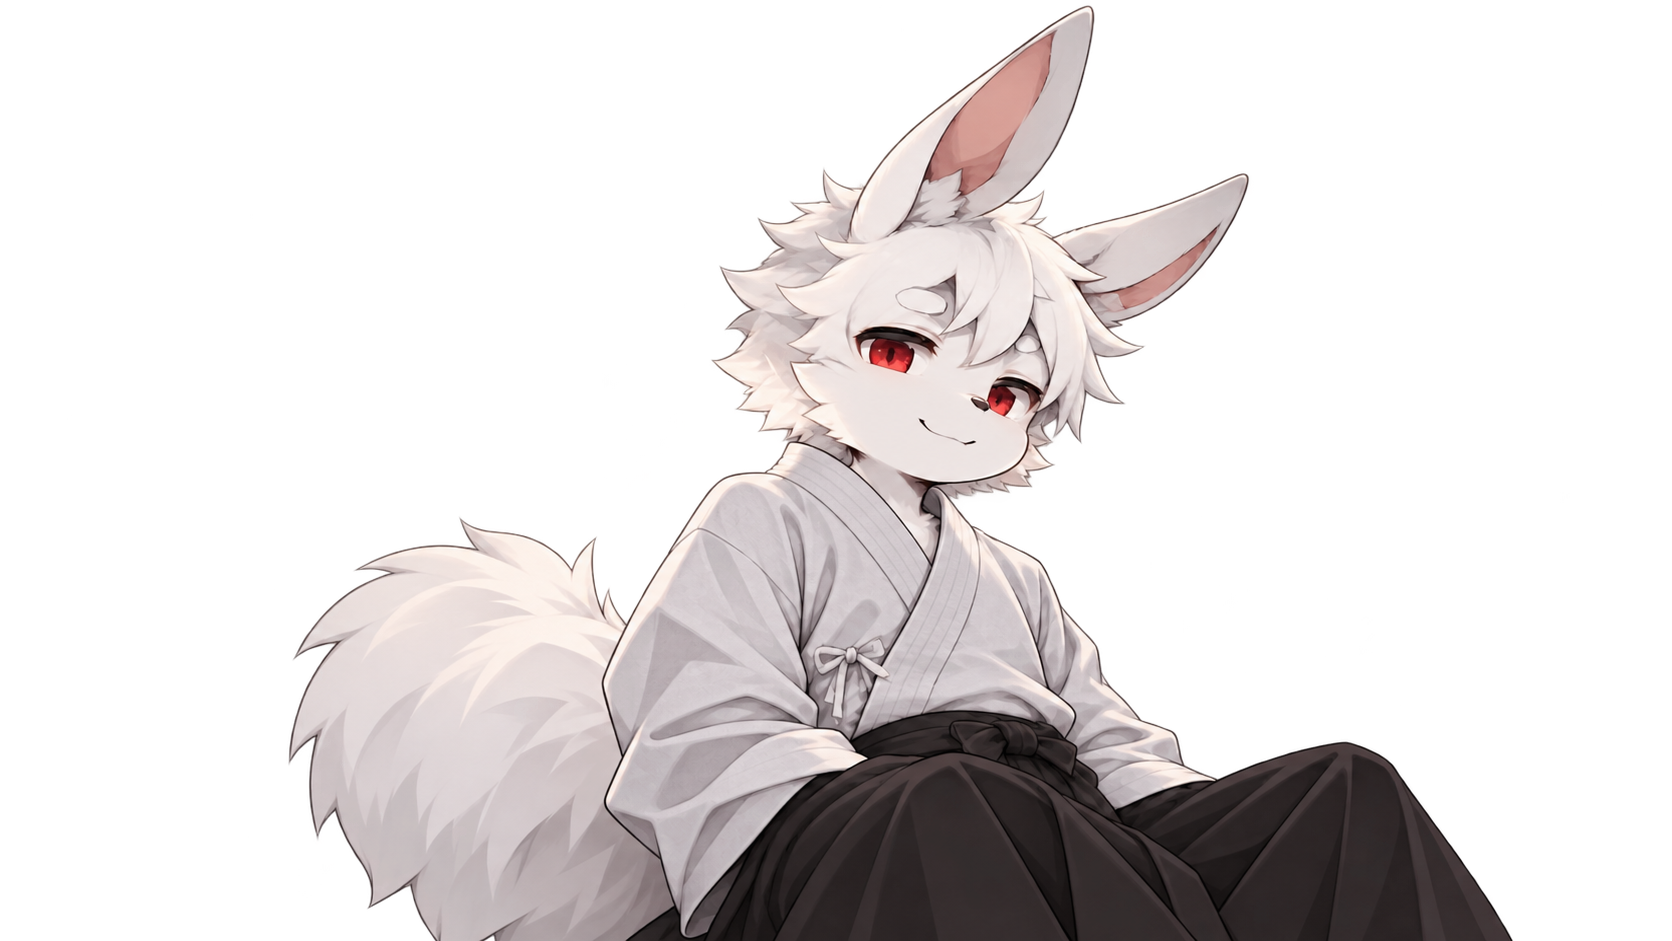
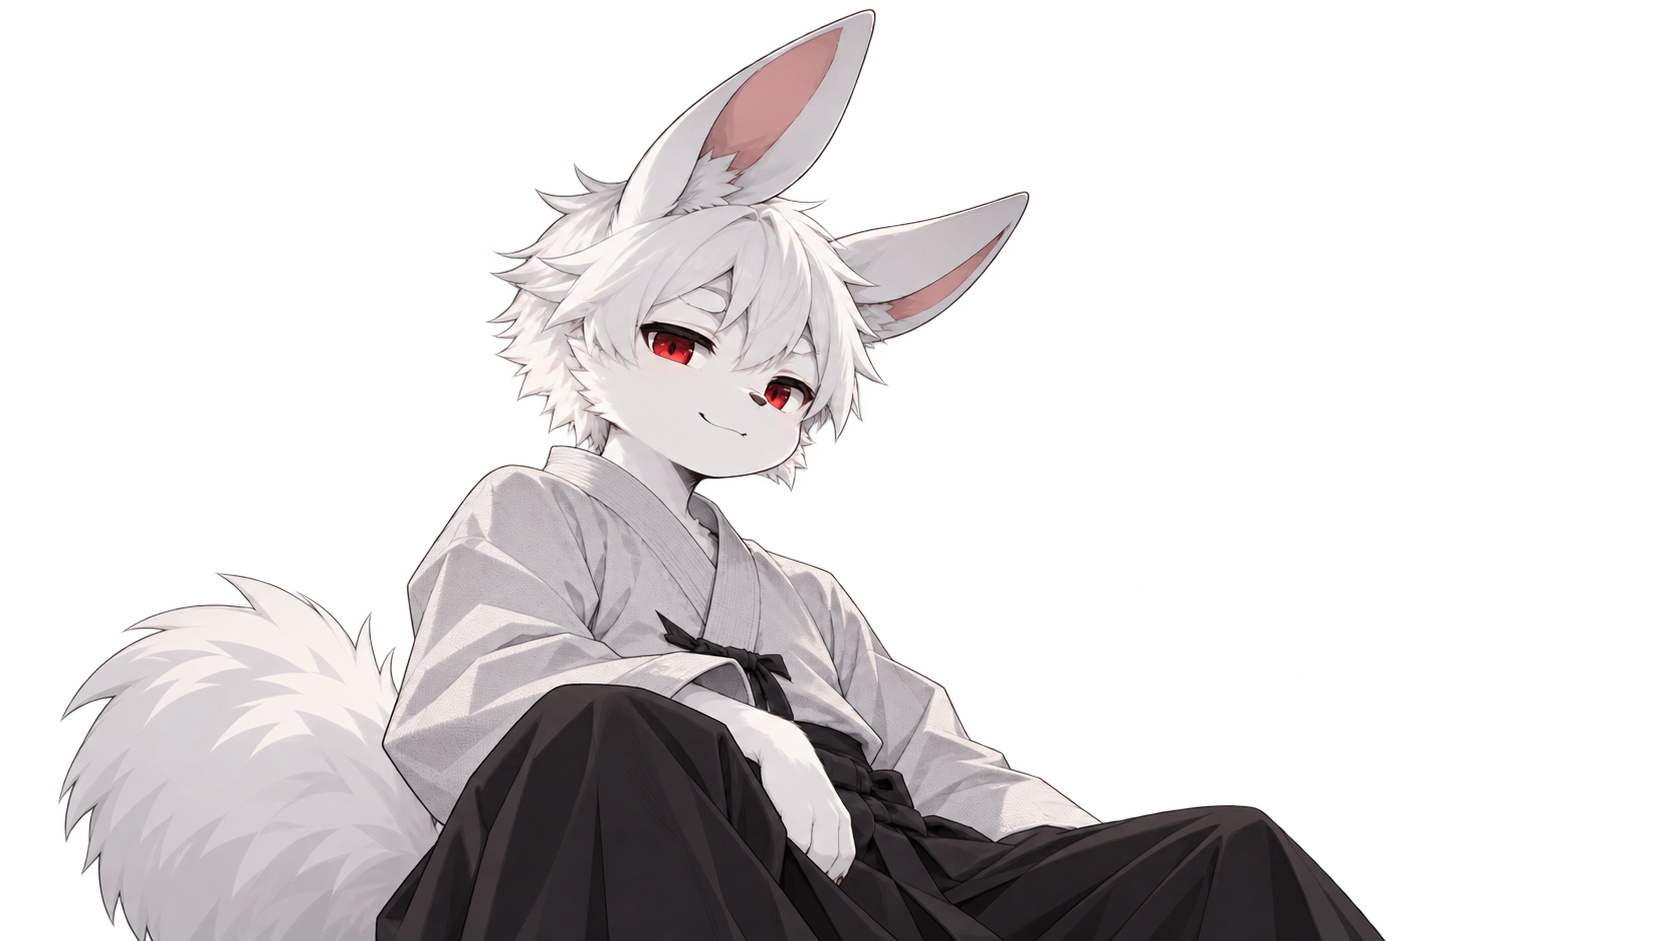
updates

diff --git a/src/lib/documents.ts b/src/lib/documents.ts
@@ -3,10 +3,17 @@ export type LocalizedText = {
   ja: string;
 };
 
+export type DocumentSubsection = {
+  id: string;
+  number: string;
+  title: LocalizedText;
+};
+
 export type DocumentSection = {
   id: string;
   number: string;
   title: LocalizedText;
+  subsections: DocumentSubsection[];
 };
 
 export type DocumentChapter = {
@@ -18,7 +25,7 @@ export type DocumentChapter = {
 
 export const deepReinforcementLearning = {
   slug: "deep-reinforcement-learning",
-  title: "深度强化学习",
+  title: "深層強化学習",
   alternateTitle: {
     en: "Deep Reinforcement Learning",
     ja: "深層強化学習",
@@ -29,55 +36,114 @@ export const deepReinforcementLearning = {
   },
   chapters: [
     {
-      id: "foundations",
+      id: "chapter-1",
       number: "01",
-      title: { en: "Foundations", ja: "基礎" },
+      title: { en: "Chapter 1", ja: "第1章" },
       sections: [
         {
-          id: "agent-and-environment",
+          id: "machine-learning-foundations",
           number: "1.1",
-          title: { en: "Agent and environment", ja: "エージェントと環境" },
+          title: { en: "Machine learning foundations", ja: "機械学習基礎" },
+          subsections: [
+            {
+              id: "linear-models",
+              number: "1.1.1",
+              title: { en: "Linear models", ja: "線形モデル" },
+            },
+            {
+              id: "neural-networks",
+              number: "1.1.2",
+              title: { en: "Neural networks", ja: "ニューラルネットワーク" },
+            },
+            {
+              id: "backpropagation-and-gradient-descent",
+              number: "1.1.3",
+              title: {
+                en: "Backpropagation and gradient descent",
+                ja: "誤差逆伝播と勾配降下法",
+              },
+            },
+          ],
         },
         {
-          id: "rewards-and-returns",
+          id: "monte-carlo",
           number: "1.2",
-          title: { en: "Rewards and returns", ja: "報酬とリターン" },
+          title: { en: "Monte Carlo", ja: "モンテカルロ" },
+          subsections: [
+            {
+              id: "random-variables",
+              number: "1.2.1",
+              title: { en: "Random variables", ja: "確率変数" },
+            },
+            {
+              id: "monte-carlo-estimation",
+              number: "1.2.2",
+              title: { en: "Monte Carlo estimation", ja: "モンテカルロ推定" },
+            },
+          ],
+        },
+        {
+          id: "reinforcement-learning-foundations",
+          number: "1.3",
+          title: { en: "Reinforcement learning foundations", ja: "強化学習基礎" },
+          subsections: [
+            {
+              id: "markov-decision-processes",
+              number: "1.3.1",
+              title: { en: "Markov decision processes", ja: "マルコフ決定過程" },
+            },
+            {
+              id: "policies",
+              number: "1.3.2",
+              title: { en: "Policies", ja: "方策" },
+            },
+            {
+              id: "sources-of-randomness",
+              number: "1.3.3",
+              title: { en: "Sources of randomness", ja: "ランダム性の源泉" },
+            },
+            {
+              id: "returns-and-discounted-returns",
+              number: "1.3.4",
+              title: { en: "Returns and discounted returns", ja: "リターンと割引リターン" },
+            },
+            {
+              id: "value-functions",
+              number: "1.3.5",
+              title: { en: "Value functions", ja: "価値関数" },
+            },
+            {
+              id: "experimental-environments",
+              number: "1.3.6",
+              title: { en: "Experimental environments", ja: "実験環境" },
+            },
+          ],
         },
       ],
     },
     {
-      id: "value-methods",
+      id: "chapter-2",
       number: "02",
-      title: { en: "Value-based methods", ja: "価値ベース手法" },
-      sections: [
-        {
-          id: "value-functions",
-          number: "2.1",
-          title: { en: "Value functions", ja: "価値関数" },
-        },
-        {
-          id: "q-learning",
-          number: "2.2",
-          title: { en: "Q-learning", ja: "Q学習" },
-        },
-      ],
+      title: { en: "Chapter 2", ja: "第2章" },
+      sections: [],
     },
     {
-      id: "policy-methods",
+      id: "chapter-3",
       number: "03",
-      title: { en: "Policy methods", ja: "方策ベース手法" },
-      sections: [
-        {
-          id: "policy-gradients",
-          number: "3.1",
-          title: { en: "Policy gradients", ja: "方策勾配法" },
-        },
-        {
-          id: "actor-critic",
-          number: "3.2",
-          title: { en: "Actor–critic", ja: "Actor–Critic" },
-        },
-      ],
+      title: { en: "Chapter 3", ja: "第3章" },
+      sections: [],
+    },
+    {
+      id: "chapter-4",
+      number: "04",
+      title: { en: "Chapter 4", ja: "第4章" },
+      sections: [],
+    },
+    {
+      id: "chapter-5",
+      number: "05",
+      title: { en: "Chapter 5", ja: "第5章" },
+      sections: [],
     },
   ] satisfies DocumentChapter[],
 } as const;

diff --git a/src/components/learning-document.tsx b/src/components/learning-document.tsx
@@ -54,9 +54,21 @@ export default function LearningDocument() {
                   <ol className={`mt-3 ml-8 space-y-2 border-l pl-4 ${isDark ? "border-white/15" : "border-black/15"}`}>
                     {chapter.sections.map((section) => (
                       <li key={section.id} className="list-none">
-                        <a href={`#${section.id}`} className={`text-xs leading-5 transition-colors hover:text-current ${muted}`}>
+                        <a href={`#${section.id}`} className={`block text-xs leading-5 transition-colors hover:text-current ${muted}`}>
                           {section.number} · {section.title[language]}
                         </a>
+                        <ol className="mt-1.5 ml-3 space-y-1.5 p-0">
+                          {section.subsections.map((subsection) => (
+                            <li key={subsection.id} className="list-none">
+                              <a
+                                href={`#${subsection.id}`}
+                                className={`block text-[11px] leading-5 transition-colors hover:text-current ${muted}`}
+                              >
+                                {subsection.number} · {subsection.title[language]}
+                              </a>
+                            </li>
+                          ))}
+                        </ol>
                       </li>
                     ))}
                   </ol>
@@ -90,17 +102,31 @@ export default function LearningDocument() {
                   <h2 className="m-0 text-[clamp(30px,5vw,56px)] font-medium tracking-[-0.04em]">
                     {chapter.title[language]}
                   </h2>
-                  <div className="mt-8 space-y-5">
-                    {chapter.sections.map((section) => (
-                      <div key={section.id} id={section.id} className="scroll-mt-28 border-t border-current/15 pt-5">
-                        <div className="flex items-baseline gap-4">
-                          <span className={`text-[10px] tracking-[0.16em] ${muted}`}>{section.number}</span>
-                          <h3 className="m-0 text-lg font-medium">{section.title[language]}</h3>
-                        </div>
-                        <p className={`mt-3 ml-10 text-sm ${muted}`}>{text.status}</p>
-                      </div>
-                    ))}
-                  </div>
+                  {chapter.sections.length === 0 ? (
+                    <p className={`mt-6 text-sm ${muted}`}>{text.status}</p>
+                  ) : (
+                    <div className="mt-8 space-y-8">
+                      {chapter.sections.map((section) => (
+                        <section key={section.id} id={section.id} className="scroll-mt-28 border-t border-current/15 pt-5">
+                          <div className="flex items-baseline gap-4">
+                            <span className={`text-[10px] tracking-[0.16em] ${muted}`}>{section.number}</span>
+                            <h3 className="m-0 text-lg font-medium">{section.title[language]}</h3>
+                          </div>
+                          <div className="mt-4 ml-10 divide-y divide-current/10">
+                            {section.subsections.map((subsection) => (
+                              <div key={subsection.id} id={subsection.id} className="scroll-mt-28 py-4 first:pt-0">
+                                <div className="flex items-baseline gap-4">
+                                  <span className={`text-[9px] tracking-[0.14em] ${muted}`}>{subsection.number}</span>
+                                  <h4 className="m-0 text-base font-medium">{subsection.title[language]}</h4>
+                                </div>
+                                <p className={`mt-2 text-sm ${muted}`}>{text.status}</p>
+                              </div>
+                            ))}
+                          </div>
+                        </section>
+                      ))}
+                    </div>
+                  )}
                 </section>
               ))}
             </div>

diff --git a/src/components/home-hero.tsx b/src/components/home-hero.tsx
@@ -28,14 +28,10 @@ export default function HomeHero() {
 
   return (
     <main
-      className={`relative isolate h-screen min-h-[640px] w-screen overflow-hidden ${
-        isDark
-          ? "bg-[radial-gradient(circle_at_72%_38%,rgba(239,69,81,0.15),transparent_30%),linear-gradient(120deg,transparent_55%,#29171a_130%)]"
-          : "bg-[radial-gradient(circle_at_72%_38%,rgba(184,21,34,0.12),transparent_30%),linear-gradient(120deg,transparent_55%,#eadadd_130%)]"
-      }`}
+      className={`relative isolate h-screen min-h-[640px] w-screen overflow-hidden}`}
     >
       <div
-        className={`absolute inset-x-0 top-[48%] z-10 w-full -translate-x-[0.0742em] -translate-y-1/2 select-none whitespace-nowrap text-center [font-family:var(--font-calligraphy)] text-[clamp(240px,34vw,660px)] leading-[0.78] tracking-[-0.11em] max-[820px]:top-[28%] max-[820px]:text-[clamp(170px,52vw,320px)] ${
+        className={`absolute inset-x-0 top-[48%] z-10 w-full -translate-x-[0.2em] -translate-y-1/2 select-none whitespace-nowrap text-center [font-family:var(--font-calligraphy)] text-[clamp(320px,44vw,860px)] leading-[0.78] tracking-[-0.24em] max-[820px]:top-[28%] max-[820px]:text-[clamp(220px,68vw,420px)] ${
           isDark ? "text-[#e5e2de]" : "text-[#242325]"
         }`}
         aria-label="童夢綺"
@@ -75,17 +71,19 @@ export default function HomeHero() {
       </p>
 
       <section
-        className={`absolute right-[clamp(24px,5vw,84px)] bottom-[clamp(34px,6vw,88px)] z-30 w-[min(420px,calc(100vw-48px))] border-t border-l pt-[22px] pl-6 max-[820px]:inset-x-[22px] max-[820px]:bottom-7 max-[820px]:w-auto max-[820px]:border max-[820px]:p-[18px_20px] max-[820px]:backdrop-blur-xl ${
+        className={`absolute right-[clamp(44px,8vw,136px)] bottom-[clamp(34px,6vw,88px)] z-30 w-[min(420px,calc(100vw-48px))] border-t border-l pt-[22px] pl-6 max-[820px]:inset-x-[22px] max-[820px]:bottom-7 max-[820px]:w-auto max-[820px]:border max-[820px]:p-[18px_20px] max-[820px]:backdrop-blur-xl ${
           isDark
             ? "border-white/40 [text-shadow:0_1px_18px_#111113] max-[820px]:bg-[#111113]/75 max-[820px]:[text-shadow:none]"
             : "border-black/40 [text-shadow:0_1px_18px_#f2f0ec] max-[820px]:bg-[#f2f0ec]/75 max-[820px]:[text-shadow:none]"
         }`}
         aria-label={language === "en" ? "Introduction" : "紹介"}
       >
-        <p className={`mb-3 text-[15px] font-bold uppercase tracking-[0.24em] max-[820px]:mb-2 ${accent}`}>
+        <p
+          className={`mb-3 text-[20px] font-bold uppercase tracking-[0.24em] max-[820px]:mb-2 ${accent}`}
+        >
           {text.eyebrow}
         </p>
-        <p className="m-0 text-[12px] leading-[1.7] tracking-[0.01em]">
+        <p className="m-0 text-[15px] leading-[1.7] tracking-[0.01em]">
           {text.introduction}
         </p>
       </section>

diff --git a/src/app/document/deep-reinforcement-learning/page.tsx b/src/app/document/deep-reinforcement-learning/page.tsx
@@ -2,7 +2,7 @@ import type { Metadata } from "next";
 import LearningDocument from "@/components/learning-document";
 
 export const metadata: Metadata = {
-  title: "深度强化学习",
+  title: "Deep Reinforcement Learning",
   description: "Domuki's structured notes on deep reinforcement learning.",
 };
 
